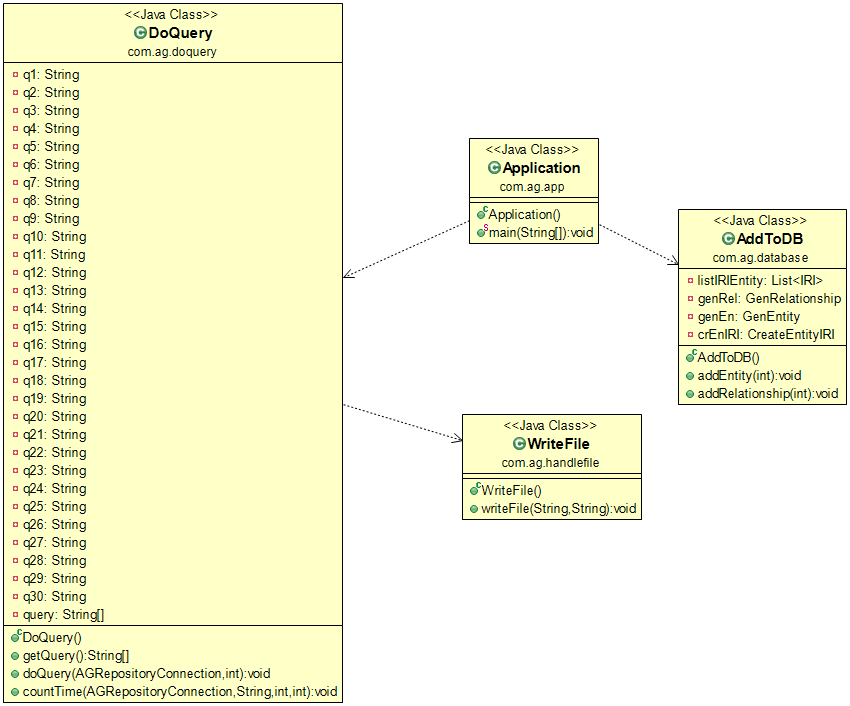
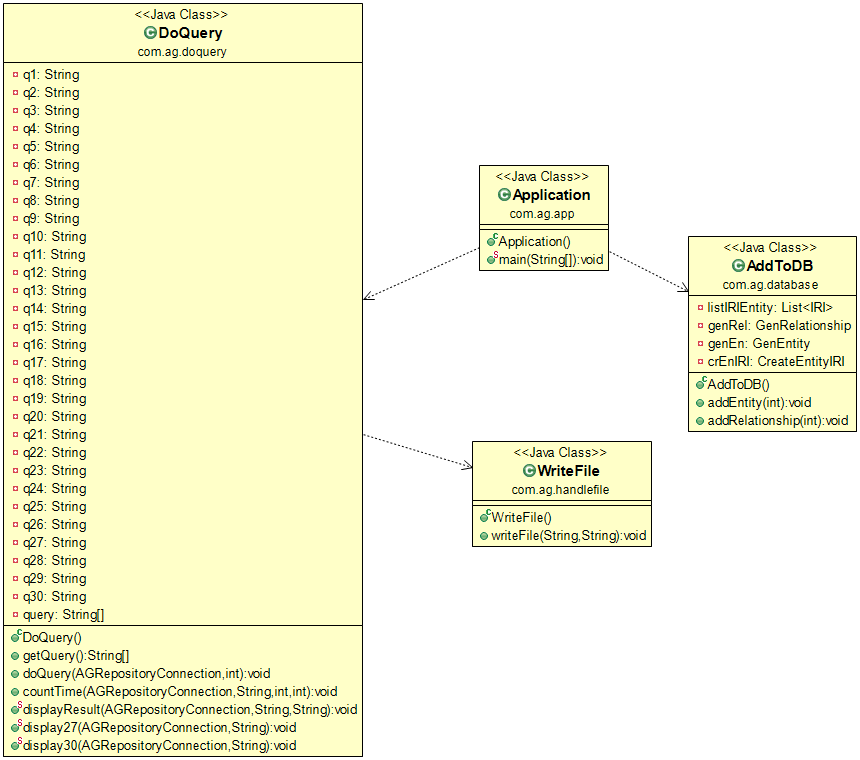
update

diff --git a/OOP/src/main/java/com/ag/doquery/DoQuery.java b/OOP/src/main/java/com/ag/doquery/DoQuery.java
@@ -295,18 +295,51 @@ public class DoQuery {
 		new WriteFile().writeFile("result/q" + Integer.toString(id) + "-" + Integer.toString(title) + ".txt", Long.toString(delta/1000000));
 	}
 	
-//	public static void displayResult(AGRepositoryConnection conn ,String query, String title) {
-//		System.out.println("\nKết quả truy vấn \n");
-//		
-//		TupleQuery tupleQuery = conn.prepareTupleQuery(QueryLanguage.SPARQL, query);
-//		TupleQueryResult result = tupleQuery.evaluate();
-//		
-//		while (result.hasNext()) {
-//            BindingSet bindingSet = result.next();
-//            Value rs = bindingSet.getValue(title);
-//            System.out.println(rs.stringValue());
-//        }
-//		
-//        result.close();
-//	}
+	public static void displayResult(AGRepositoryConnection conn ,String query, String title) {
+		System.out.println("\nKết quả truy vấn \n");
+		
+		TupleQuery tupleQuery = conn.prepareTupleQuery(QueryLanguage.SPARQL, query);
+		TupleQueryResult result = tupleQuery.evaluate();
+		
+		while (result.hasNext()) {
+            BindingSet bindingSet = result.next();
+            Value rs = bindingSet.getValue(title);
+            System.out.println(rs.stringValue());
+        }
+		
+        result.close();
+	}
+	
+	public static void display27(AGRepositoryConnection conn ,String query) {
+		System.out.println("\nKết quả truy vấn \n");
+		
+		TupleQuery tupleQuery = conn.prepareTupleQuery(QueryLanguage.SPARQL, query);
+		TupleQueryResult result = tupleQuery.evaluate();
+		
+		while (result.hasNext()) {
+            BindingSet bindingSet = result.next();
+            Value s = bindingSet.getValue("s");
+            Value p = bindingSet.getValue("p");
+            Value o = bindingSet.getValue("o");
+            System.out.println(s.stringValue() + " ---- " + p.stringValue() + " ---- " + o.stringValue());
+        }
+		
+        result.close();
+	}
+	
+	public static void display30(AGRepositoryConnection conn ,String query) {
+		System.out.println("\nKết quả truy vấn \n");
+		
+		TupleQuery tupleQuery = conn.prepareTupleQuery(QueryLanguage.SPARQL, query);
+		TupleQueryResult result = tupleQuery.evaluate();
+		
+		while (result.hasNext()) {
+            BindingSet bindingSet = result.next();
+            Value rs1 = bindingSet.getValue("s");
+            Value rs2 = bindingSet.getValue("o");
+            System.out.println(rs1.stringValue() + " ---- " + rs2.stringValue());
+        }
+		
+        result.close();
+	}
 }

diff --git a/OOP/src/main/java/com/ag/app/Application.java b/OOP/src/main/java/com/ag/app/Application.java
@@ -22,36 +22,45 @@ public class Application {
 		AGRepositoryConnection conn = cdb.connectDB().getConnection();
 		DoQuery dq = new DoQuery();
 		
-		System.out.println("Start generating data");
+//		System.out.println("Start generating data");
+//		
+//		for (int i = 1; i <= 80; i++) {
+//			atdb.addEntity(5000);
+//			atdb.addRelationship(6250);
+//			conn.add(atdb.getModel());
+//			atdb.getModel().clear();
+//			if(i==1 || i==6 || i==20 || i==80) {
+//				dq.doQuery(conn, i);
+//			}
+//			
+//		}
+//		conn.close();
+//		System.out.println("Finish generating data");
 		
-		for (int i = 1; i <= 80; i++) {
-			atdb.addEntity(5000);
-			atdb.addRelationship(6250);
-			conn.add(atdb.getModel());
-			atdb.getModel().clear();
-			if(i==1 || i==6 || i==20 || i==80) {
-				dq.doQuery(conn, i);
-			}
-			
+		System.out.println("Nhập số câu truy vấn bạn muốn thực hiện (1-30) : ");
+		Scanner sc = new Scanner(System.in);
+		int choice = sc.nextInt();
+		if(choice == 1 || choice == 4) {
+			DoQuery.displayResult(conn, dq.getQuery()[choice-1], "description");
 		}
-		conn.close();
-		System.out.println("Finish generating data");
-		
-//		System.out.println("Nhập số câu truy vấn bạn muốn thực hiện (1-20) : ");
-//		Scanner sc = new Scanner(System.in);
-//		int choice = sc.nextInt();
-//		if(choice == 1 || choice == 4) {
-//			DoQuery.displayResult(conn, DoQuery.getQuery()[choice-1], "description");
-//		}
-//		else if(choice == 3 || choice == 8) {
-//			DoQuery.displayResult(conn, DoQuery.getQuery()[choice-1], "link");
-//		}
-//		else if(choice == 9 || choice == 19) {
-//			DoQuery.displayResult(conn, DoQuery.getQuery()[choice-1], "headquarter");
-//		}
-//		else {
-//			DoQuery.displayResult(conn, DoQuery.getQuery()[choice-1], "label");
-//		}
+		else if(choice == 3 || choice == 8) {
+			DoQuery.displayResult(conn, dq.getQuery()[choice-1], "link");
+		}
+		else if(choice == 9 || choice == 19) {
+			DoQuery.displayResult(conn, dq.getQuery()[choice-1], "headquarter");
+		}
+		else if(choice == 27) {
+			DoQuery.display27(conn, dq.getQuery()[choice-1]);
+		}
+		else if(choice == 30) {
+			DoQuery.display30(conn, dq.getQuery()[choice-1]);
+		}
+		else if(choice > 20 && choice !=27 && choice !=30) {
+			DoQuery.displayResult(conn, dq.getQuery()[choice-1], "s");
+		}
+		else {
+			DoQuery.displayResult(conn, dq.getQuery()[choice-1], "label");
+		}
 		
 	}
 
